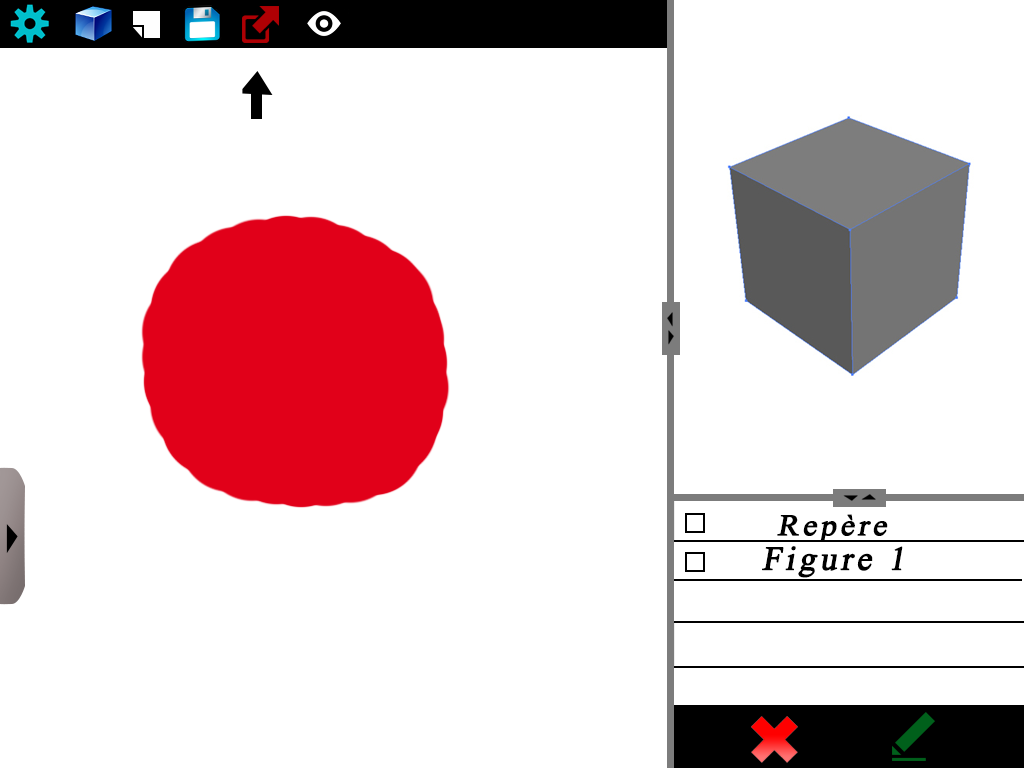
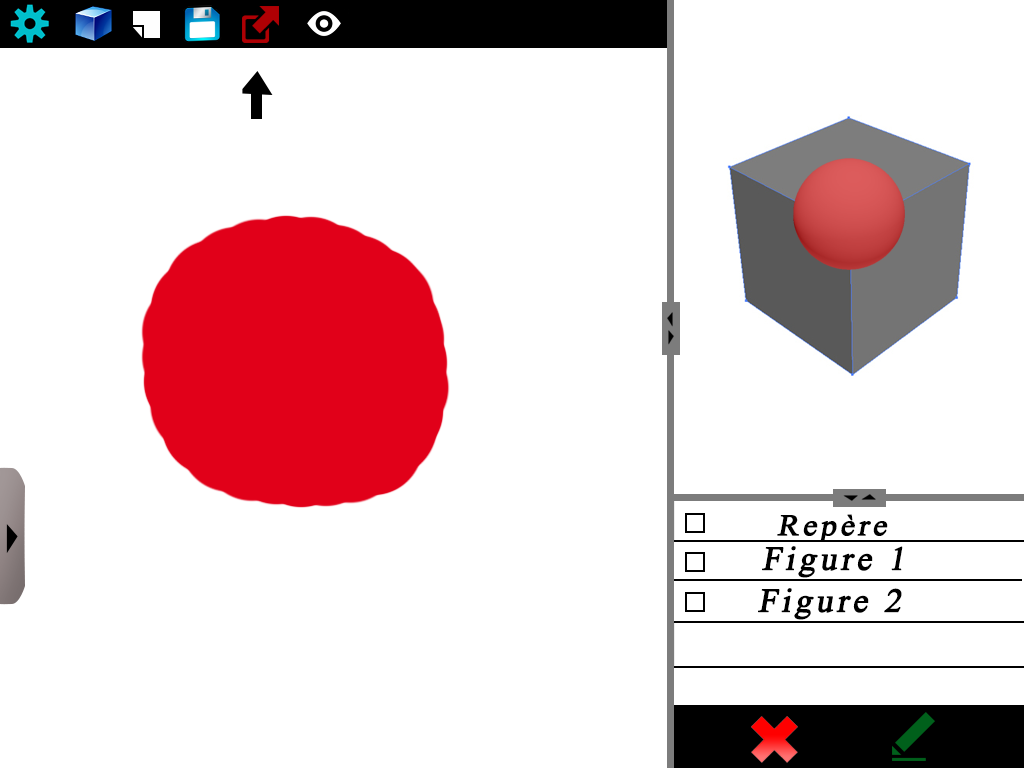
Ajout des images de l'appli dans le beamer

Changed region(s): [[0.75, 0.1875, 0.9062, 0.375], [0.7188, 0.75, 0.875, 0.8125]]

diff --git a/Diapo_EtudePratique.tex b/Diapo_EtudePratique.tex
@@ -67,19 +67,35 @@
 		\subsection{The interface}
 		
 			\begin{frame}{The app}
-				\includegraphics[height=205pt]{images/AppliMenuFerme.png}
+				\includegraphics[height=205pt]{maquette/maquette_1.png}
 			\end{frame}
 			
 			\begin{frame}{The app}
-				\includegraphics[height=205pt]{images/AppliMenuOuvert.png}
+				\includegraphics[height=205pt]{maquette/maquette_2.png}
 			\end{frame}
 			
-		\subsection{The tools}
-		
-			\begin{frame}{User's possibilities}
-				A voir si vraiment utile ...
-				
-				If the user press the save button(\includegraphics[height=10pt]{images/saveIcone.png}), the project will be save.
+			\begin{frame}{The app}
+				\includegraphics[height=205pt]{maquette/maquette_3.png}
+			\end{frame}
+			
+			\begin{frame}{The app}
+				\includegraphics[height=205pt]{maquette/maquette_4.png}
+			\end{frame}
+			
+			\begin{frame}{The app}
+				\includegraphics[height=205pt]{maquette/maquette_5.png}
+			\end{frame}
+			
+			\begin{frame}{The app}
+				\includegraphics[height=205pt]{maquette/maquette_6.png}
+			\end{frame}
+			
+			\begin{frame}{The app}
+				\includegraphics[height=205pt]{maquette/maquette_7.png}
+			\end{frame}
+			
+			\begin{frame}{The app}
+				\includegraphics[height=205pt]{maquette/maquette_8.png}
 			\end{frame}
 	
 	\section{The technology : the engines}
